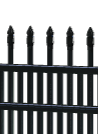
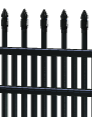
fix(ui): Charleston Pro image mirrored, all cards anchor to top
object-position: top prevents spear tips from being cropped.
Charleston Pro image flipped with scaleX(-1) for better composition.

diff --git a/tabs/StyleTab.js b/tabs/StyleTab.js
@@ -52,7 +52,7 @@ var StyleTab = function(props) {
                         onClick={function() { handleStyleChange(style.id); }}
                     >
                         <div className="style-card-img">
-                            <img src={STYLE_THUMBS[style.id]} alt={style.name} />
+                            <img src={STYLE_THUMBS[style.id]} alt={style.name} style={style.id === 'uas_101' ? { transform: 'scaleX(-1)' } : {}} />
                         </div>
                         <div className="style-card-info">
                             <div className="style-card-name">{style.name}</div>

diff --git a/styles.css b/styles.css
@@ -433,6 +433,7 @@ html, body {
   width: 100%;
   height: 100%;
   object-fit: cover;
+  object-position: top;
   padding: 8px;
   transition: transform 0.4s cubic-bezier(0.22,1,0.36,1);
 }
